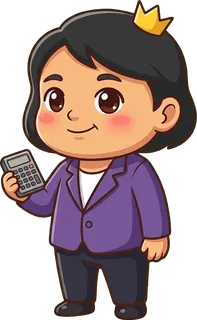
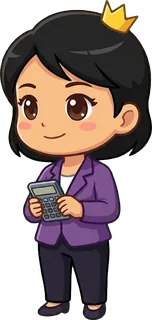
Judul jadi Negeri Bedebah, 10 sprite digenerate ulang di set awal, Gemoy kemeja biru
Claude-Session: https://claude.ai/code/session_01JLARZQAcBAnXrBpWoZ4hJu

diff --git a/src/shell.html b/src/shell.html
@@ -1,7 +1,7 @@
-<title>Kepulauan Cuan</title>
+<title>Negeri Bedebah</title>
 <meta name="claude:viewport-fit-sides" content="cover">
 <meta name="apple-mobile-web-app-capable" content="yes">
-<meta name="apple-mobile-web-app-title" content="Kepulauan Cuan">
+<meta name="apple-mobile-web-app-title" content="Negeri Bedebah">
 <link rel="preconnect" href="https://fonts.googleapis.com">
 <link rel="preconnect" href="https://fonts.gstatic.com" crossorigin>
 <link rel="stylesheet" href="https://fonts.googleapis.com/css2?family=Baloo+2:wght@600;700;800&family=Nunito:wght@600;700;800;900&display=swap">
@@ -323,8 +323,8 @@ body:has(#modal.compact.right:not([hidden])) #camBtn{visibility:hidden}
 
 <div id="app">
   <section id="splash" class="screen">
-    <div class="logo">Kepulauan<br>Cuan</div>
-    <div class="tag">Keliling Indonesia, kuasai kotanya, jadi Raja Cuan. Sekarang ada Tema Politik.</div>
+    <div class="logo">Negeri<br>Bedebah</div>
+    <div class="tag">Monopoli satire ala GetRich: urus izin, gusur lawan, hindari OTT.</div>
     <div class="char-parade" id="parade"></div>
     <div class="stack">
       <button class="btn" id="btnNew">Main Baru</button>
@@ -370,7 +370,7 @@ body:has(#modal.compact.right:not([hidden])) #camBtn{visibility:hidden}
 </div>
 
 <div id="ott" hidden><div class="siren"></div><div class="bar t"></div><div class="bar b"></div><div class="flash"></div><div class="center"><span class="tag">BREAKING NEWS</span><canvas id="ottFace" width="340" height="416"></canvas><span class="ticker" id="ottName">OTT!</span></div></div>
-<div id="rotate" aria-live="polite"><div class="rot-phone"><i></i></div><h2>Putar HP-mu</h2><p>Kepulauan Cuan dimainkan miring (landscape).</p></div>
+<div id="rotate" aria-live="polite"><div class="rot-phone"><i></i></div><h2>Putar HP-mu</h2><p>Negeri Bedebah dimainkan miring (landscape).</p></div>
 <div id="cine" hidden><canvas id="cineCv"></canvas><div id="cineBar"><i id="cineProg"></i></div><button type="button" class="btn ghost" id="cineSkip">Skip &rsaquo;</button></div>
 <div id="news" hidden><div class="card"><span class="eyebrow" id="newsEyebrow" style="color:#E2483D">Kabar Nusantara</span><h3 id="newsTitle">Kabar</h3><p id="newsText"></p></div></div>
 <div class="overlay" id="modal" hidden><div class="sheet" id="modalBody"></div></div>

diff --git a/src/chars.js b/src/chars.js
@@ -149,7 +149,7 @@ function drawChar(id,x,y,s,ring,opt){
   if(opt.cough){var ct=(Date.now()/500)%1;for(var c2=0;c2<3;c2++){var cp=(ct+c2/3)%1;ell(hx+r*(0.6+cp*1.2),hy+r*(0.4-cp*0.8),r*(0.15+cp*0.3),r*(0.15+cp*0.3),'rgba(150,150,150,'+(0.7*(1-cp))+')');}}
   g.restore();
 }
-function portrait(cv,id,color,opt){if(!sprImg(id)&&SPR_CACHE[id]&&!SPR_CACHE[id].ok){SPR_CACHE[id].wait.push(function(){portrait(cv,id,color,opt);});}var c=cv.getContext('2d'),dpr=Math.min(3,window.devicePixelRatio||1),w=cv.clientWidth||cv.width,h=cv.clientHeight||cv.height;cv.width=w*dpr;cv.height=h*dpr;c.setTransform(dpr,0,0,dpr,0,0);c.clearRect(0,0,w,h);var old=g;g=c;drawChar(id,w/2,h*0.95,Math.min(h*0.9,w*1.1),color,opt);g=old;}
+function portrait(cv,id,color,opt){if(typeof SPRITES==='undefined'&&!(opt&&opt._r>20)){var o2=Object.assign({},opt||{});o2._r=(o2._r||0)+1;setTimeout(function(){portrait(cv,id,color,o2);},150);}if(!sprImg(id)&&SPR_CACHE[id]&&!SPR_CACHE[id].ok){SPR_CACHE[id].wait.push(function(){portrait(cv,id,color,opt);});}var c=cv.getContext('2d'),dpr=Math.min(3,window.devicePixelRatio||1),w=cv.clientWidth||cv.width,h=cv.clientHeight||cv.height;cv.width=w*dpr;cv.height=h*dpr;c.setTransform(dpr,0,0,dpr,0,0);c.clearRect(0,0,w,h);var old=g;g=c;drawChar(id,w/2,h*0.95,Math.min(h*0.9,w*1.1),color,opt);g=old;}
 
 /* ---------- political satire figures: costume, props, hair (generic chibi faces) ---------- */
 function peci(hx,hy,r,col){rrect(hx-r*0.78,hy-r*1.14,r*1.56,r*0.5,r*0.12);g.fillStyle=col||'#141416';g.fill();g.fillStyle='rgba(255,255,255,.12)';g.fillRect(hx-r*0.72,hy-r*1.06,r*1.44,r*0.06);}

diff --git a/src/engine.js b/src/engine.js
@@ -66,7 +66,7 @@ var JALUR=[[1,9],[11,19],[21,29],[31,39]].map(function(r){var a=[];for(var i=r[0
 /* ---- theme packs: names, cards and news per theme (effects are shared) ---- */
 function K(name,text,kind,fx,amt,extra){var c={name:name,text:text,kind:kind,fx:fx,amt:amt||0};if(extra)for(var k in extra)c[k]=extra[k];return c;}
 var THEMES={
-  santai:{id:'santai',name:'Santai',tag:'Keliling Indonesia, kuasai kotanya.',levels:['Tanah','Rumah','Villa','Gedung','Landmark'],
+  santai:{id:'santai',name:'Santai',tag:'Liburan Keliling Nusantara: keliling Indonesia, kuasai kotanya.',levels:['Tanah','Rumah','Villa','Gedung','Landmark'],
     typeNames:{start:'Start',jail:'Pulau Terdampar',festival:'Pesta Rakyat',pelni:'Kapal Pelni',tax:'Pajak Juragan',chance:'Kesempatan',dana:'Dana Umum',parkir:'Parkir Liar'}, names:{},
     wisataLabel:'Wisata', chanceName:'Kesempatan', danaName:'Dana Umum', kasName:'Kas Pesisir', newsName:'Kabar Nusantara', jailVerb:'terdampar',
     chance:[

diff --git a/ASSETS.md b/ASSETS.md
@@ -8,7 +8,7 @@ The MIT license in `LICENSE` covers the code only. Character art and audio have 
 | `assets/music/santai.m4a` | Generated with Stable Audio 3 Medium by Hermes (adesyukmap/hermes-office, `audio/tdj-reel-01/music_v1.wav`), trimmed and loudness-normalized | Stability AI Community License |
 | `assets/sfx/*.m4a` | Generated with Stable Audio 3 Small SFX by Hermes (adesyukmap/hermes-office, `audio/tdj-reel-01/sfx`), trimmed and normalized | Stability AI Community License |
 
-| `assets/chars/*.webp` | Generated with Google Gemini from the costume prompts in `assets/chars/PROMPT-*.txt`, background removed and cropped with `assets/chars/proc.py`. `dungu.webp` from an image supplied by the maintainer | CC BY-NC 4.0 (`LICENSE-ASSETS.md`) |
+| `assets/chars/*.webp` | Generated with Google Gemini from the costume prompts in `assets/chars/PROMPT-*.txt`, background removed and cropped with `assets/chars/proc.py`. all from one Gemini conversation for a consistent style | CC BY-NC 4.0 (`LICENSE-ASSETS.md`) |
 
 All other sound effects are synthesized in code (`src/ui/11_audio.js`) and fall under the MIT license.
 

diff --git a/README.md b/README.md
@@ -1,4 +1,4 @@
-# Kepulauan Cuan
+# Negeri Bedebah
 
 Monopoli ala GetRich untuk 2 sampai 5 pemain bergantian di satu iPad (hotseat). Jalan di browser, satu file HTML, tanpa server.
 

diff --git a/docs/GDD.md b/docs/GDD.md
@@ -1,4 +1,4 @@
-# Kepulauan Cuan: Game Design Document
+# Negeri Bedebah: Game Design Document
 
 Versi 0.2 · 28 Okt 2026 · Status: plan, belum dieksekusi
 
